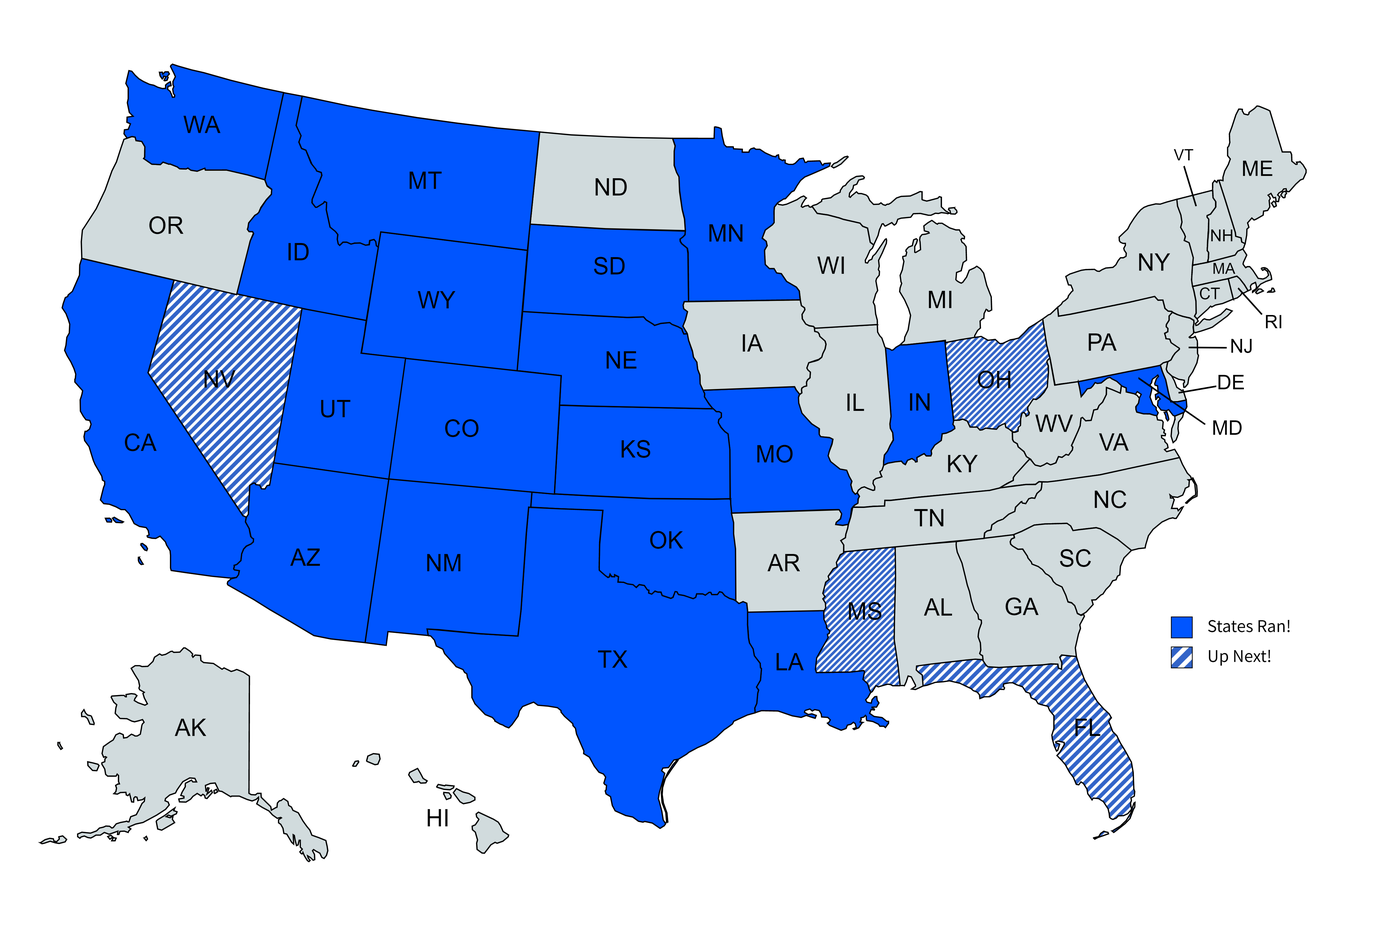
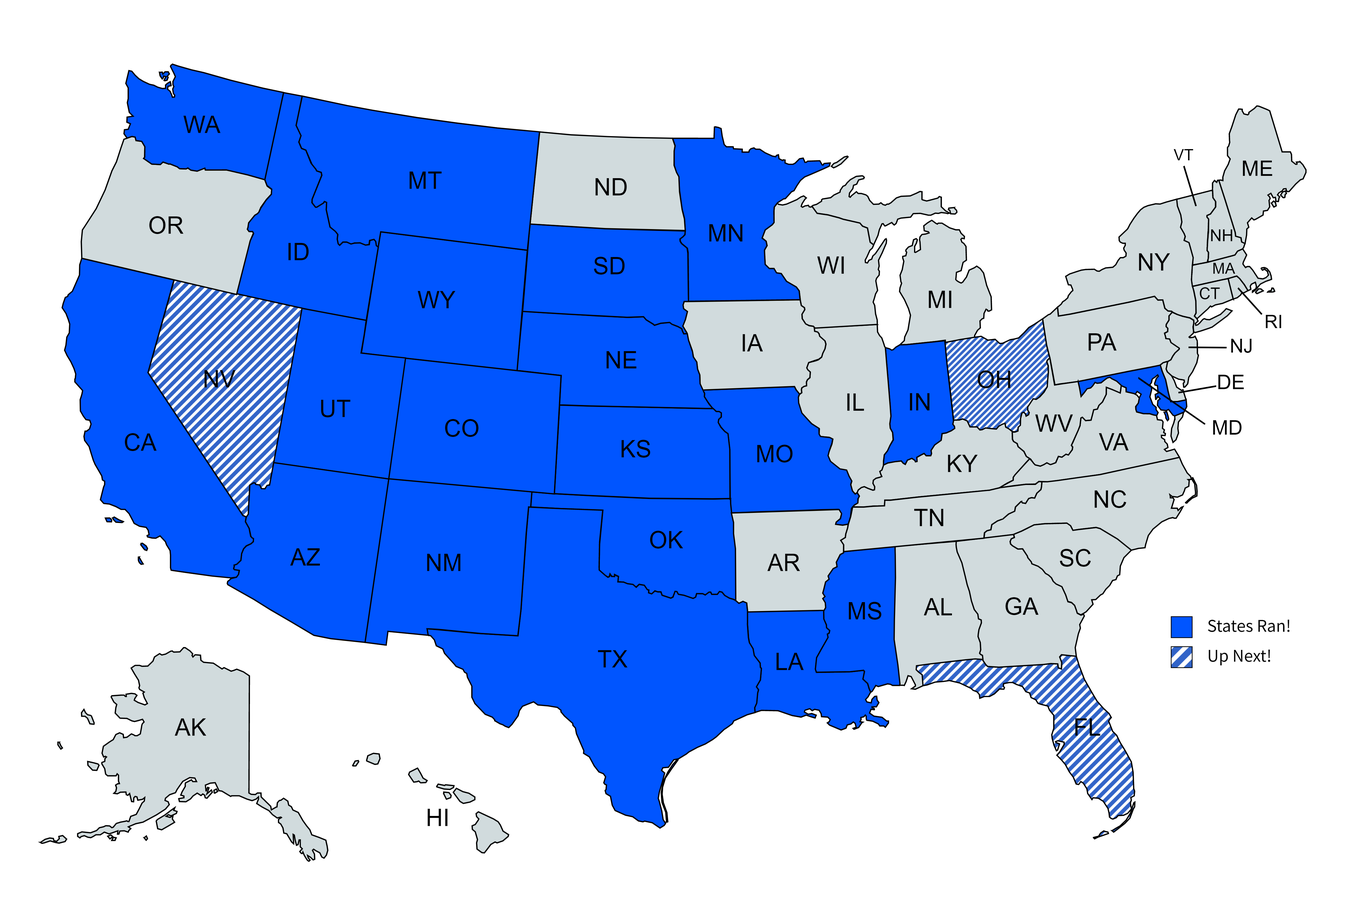
main
main

diff --git a/_pgbackup/index_1638677439.html b/_pgbackup/index_1638677439.html
@@ -39,8 +39,7 @@
                     <div class="row">
                         <div class="col-sm-12">
                             <!-- Top Contact -->
-                            <div class="top-contact link-hover-black">
-                                <a href="mailto:contact@1310milestowardacure.com"> <i class="fa fa-envelope"></i>contact@1310milestowardacure.com</a>
+                            <div class="top-contact link-hover-black"><a href="mailto:contact@1310milestowardacure.com"> <i class="fa fa-envelope"></i>contact@1310milestowardacure.com</a>
                             </div>
                             <!-- Top Social Icon -->
                         </div>
@@ -57,38 +56,27 @@
                                 <div class="col-md-12" style="display: flex; justify-content: space-between; align-items: center; flex-wrap: wrap;">
                                     <div class="navbar-header" style="margin-left: 1%;">
                                         <!-- Button For Responsive toggle -->
-                                        <!-- Logo -->
-                                        <a class="navbar-brand" href="index.html" style="flex-direction: column; align-items: center; display: flex;"> <h4 class="title text-color" style="margin-top: auto; margin-bottom: auto;">1,310 Miles Toward A Cure</h4><h4 class="title">One Stride At A Time</h4> </a>
+                                        <!-- Logo --><a class="navbar-brand" href="index.html" style="flex-direction: column; align-items: center; display: flex;"> <h4 class="title text-color" style="margin-top: auto; margin-bottom: auto;">1,310 Miles Toward A Cure</h4><h4 class="title">One Stride At A Time</h4> </a>
                                     </div>
                                     <!-- Navbar Collapse -->
-                                    <button type="button" class="navbar-toggle" data-toggle="collapse" data-target=".navbar-collapse">
-                                        <span class="sr-only">Toggle navigation</span>
-                                        <span class="icon-bar"></span>
-                                        <span class="icon-bar"></span>
-                                        <span class="icon-bar"></span>
+                                    <button type="button" class="navbar-toggle" data-toggle="collapse" data-target=".navbar-collapse"><span class="sr-only">Toggle navigation</span><span class="icon-bar"></span><span class="icon-bar"></span><span class="icon-bar"></span>
                                     </button>
                                     <div id="topnav" class="navbar-collapse collapse">
                                         <!-- nav -->
                                         <ul class="nav navbar-nav">
-                                            <li class="text-center">
-                                                <a href="#update" class="scroll">Home</a>
+                                            <li class="text-center"><a href="#update" class="scroll">Home</a>
                                             </li>
-                                            <li class="text-center">
-                                                <a href="#events" class="scroll">Previous Events</a>
+                                            <li class="text-center"><a href="#events" class="scroll">Events</a>
                                             </li>
-                                            <li class="text-center">
-                                                <a href="#about-us" class="scroll">About Us</a>
+                                            <li class="text-center"><a href="#about-us" class="scroll">About Us</a>
                                             </li>
-                                            <li class="text-center">
-                                                <a href="#facts" class="scroll">Facts</a>
+                                            <li class="text-center"><a href="#facts" class="scroll">Facts</a>
                                             </li>
-                                            <li class="text-center">
-                                                <a href="#map" class="scroll">Map</a>
+                                            <li class="text-center"><a href="#map" class="scroll">Map</a>
                                             </li>
                                             <!-- Ends Widgets Block -->
                                             <!-- Header Donate Button -->
-                                            <li class="text-center">
-                                                <a target="_blank" rel="noopener noreferrer" href="https://www2.jdrf.org/site/Donation2?df_id=21304&FR_ID=8504&PROXY_TYPE=20&PROXY_ID=11245962" class="scroll"><span class="btn btn-default-inverse">Donate</span></a>
+                                            <li class="text-center"><a target="_blank" rel="noopener noreferrer" href="https://www2.jdrf.org/site/Donation2?df_id=21304&FR_ID=8504&PROXY_TYPE=20&PROXY_ID=11245962" class="scroll"><span class="btn btn-default-inverse">Donate</span></a>
                                             </li>
                                         </ul>
                                         <!-- Right nav -->
@@ -118,13 +106,12 @@
                             <!-- Title -->
                             <h4 class="title text-color">Help us create a world without T1D!</h4>
                             <!-- Content -->
-                            <p>We&rsquo;re up and running and with our own website! Picking up where we left off (pre-pandemic), our current goal is to complete half marathons in 25 states by Summer, 2022. Since races have opened up again, earlier this year, we have completed Wyoming, Missouri, Oklahoma and, most recently, Mississippi. We are so excited to be traveling around the US again. Next up will be Florida in January with both Joey and Micaela running the race with us. See our map of the United States showing all the states we have completed and ALL the states yet to run.</p>
+                            <p>We’re up and running and with our own website! Picking up where we left off (pre-pandemic), our current goal is to complete half marathons in 25 states by Summer, 2022. Since races have opened up again, earlier this year, we have completed Wyoming, Missouri, and Oklahoma. We are so excited to be traveling around the US again. Next up will be Mississippi in December. See our map of the United States showing all the states we have completed and ALL the states yet to run.</p>
                             <p>Please check out our recent events tab to see how much has been raised so far and how much more we hope to raise by the time we tick off our 50th state. We appreciate, very much, everyone’s support over the years and hope that together we can continue to fundraise for JDRF to help them continue their research and ultimately move the world from Type 1 to Type None!</p>
                             <p>
     	While we are running, please check out <a style="color:DodgerBlue" href="https://www.jdrf.org/impact">www.jdrf.org/impact</a> to see where the funds you contribute go and take a look back at how far we have come in the 					treatment of this life threatening disease. </p>
                             <p>To donate to JDRF, please click on the donate button that should redirect you to
-	their website!</p>
-                            <a class="btn btn-default white top-margin-15 scroll" href="#about-us">READ MORE ABOUT US</a>
+	their website!</p><a class="btn btn-default white top-margin-15 scroll" href="#about-us">READ MORE ABOUT US</a>
                         </div>
                     </div>
                 </div>
@@ -364,17 +351,6 @@
                             </div>
                         </div>
                     </div>
-                    <div class="grids col-xs-12 col-sm-6 col-md-3 mix all charity" style="margin-bottom: 10px;">
-                        <div class="grid">
-                            <img src="img/sections/portfolio/gallery-20.jpg" width="317" height="267" alt="Recent Work" class="img-responsive"/>
-                            <div class="figcaption">
-                                <div class="caption-block text-center">
-                                    <h4>Mississippi</h4>
-                                </div>
-                                <!-- Image Popup-->
-                            </div>
-                        </div>
-                    </div>
                 </div>
                 <!-- Mix Container -->
             </section>
@@ -391,10 +367,8 @@
                             <!-- Content -->
                             <h2 class="title text-color">Who We Are</h2>
                             <h5 style="font-size: 18px;"><b>Read More About Our Campaign!</b></h5>
-                            <p style="text-align: left; font-size: 17;">We began our quest in July, 2015 to run a half marathon in every state! Physical challenges aside, we also wanted to tie a charity to this endeavor.  As we were researching various organizations, in early 2016, our daughter, Micaela, was diagnosed with Type 1 Diabetes.</p>
-                            <p style="text-align: left; font-size: 17;">We decided to join with Juvenile Diabetes Research Foundation (JDRF) to raise funds for the millions of people living with and affected by Type 1 Diabetes (T1D).  The money we help raise will help JDRF fund critical research to progressively remove the impact of T1D from people's lives until no one has to fear developing the disease.</p> 
-                            <p style="text-align: left; font-size: 17;">Please see how your dollars are providing hope to those living with this 24/7 disease.</p>
-                            <a target="_blank" rel="noopener noreferrer" href="https://news.vrtx.com/press-release/vertex-announces-positive-day-90-data-first-patient-phase-12-clinical-trial-dosed-vx"><u><b style="font-size: 15px;" class="text-primary">Vertex Announces Positive Day 90 Data for the First Patient in the Phase 1/2 Clinical Trial Dosed With VX-880, a Novel Investigational Stem Cell-Derived Therapy for the Treatment of Type 1 Diabetes | Vertex Newsroom (vrtx.com)</b></u></a>
+                            <p style="text-align: left; font-size: 17;">Rick and Rae Negreann began their quest in July, 2015 to run a half marathon in every state! Physical challenge aside, they also wanted to tie a charity to their endeavor. As they were researching various organizations, in early 2016, their daughter was diagnosed with Type 1 Diabetes.</p>
+                            <p style="text-align: left; font-size: 17;">They decided to join with Juvenile Diabetes Research Foundation (JDRF) to raise funds for the millions of people living with and affected by Type 1 Diabetes (T1D). The money they help raise will help JDRF fund critical research to progressively remove the impact of T1D from people&apos;s lives until no one has to fear developing the disease.</p><a target="_blank" rel="noopener noreferrer" href="https://news.vrtx.com/press-release/vertex-announces-positive-day-90-data-first-patient-phase-12-clinical-trial-dosed-vx"><u><b style="font-size: 15px;">Vertex Announces Positive Day 90 Data for the First Patient in the Phase 1/2 Clinical Trial Dosed With VX-880, a Novel Investigational Stem Cell-Derived Therapy for the Treatment of Type 1 Diabetes | Vertex Newsroom (vrtx.com)</b></u></a>
                         </div>
                         <div class="col-md-6 text-center">
                             <!-- Image -->

diff --git a/_pgbackup/index_1638678147.html b/_pgbackup/index_1638678147.html
@@ -39,8 +39,7 @@
                     <div class="row">
                         <div class="col-sm-12">
                             <!-- Top Contact -->
-                            <div class="top-contact link-hover-black">
-                                <a href="mailto:contact@1310milestowardacure.com"> <i class="fa fa-envelope"></i>contact@1310milestowardacure.com</a>
+                            <div class="top-contact link-hover-black"><a href="mailto:contact@1310milestowardacure.com"> <i class="fa fa-envelope"></i>contact@1310milestowardacure.com</a>
                             </div>
                             <!-- Top Social Icon -->
                         </div>
@@ -57,38 +56,27 @@
                                 <div class="col-md-12" style="display: flex; justify-content: space-between; align-items: center; flex-wrap: wrap;">
                                     <div class="navbar-header" style="margin-left: 1%;">
                                         <!-- Button For Responsive toggle -->
-                                        <!-- Logo -->
-                                        <a class="navbar-brand" href="index.html" style="flex-direction: column; align-items: center; display: flex;"> <h4 class="title text-color" style="margin-top: auto; margin-bottom: auto;">1,310 Miles Toward A Cure</h4><h4 class="title">One Stride At A Time</h4> </a>
+                                        <!-- Logo --><a class="navbar-brand" href="index.html" style="flex-direction: column; align-items: center; display: flex;"> <h4 class="title text-color" style="margin-top: auto; margin-bottom: auto;">1,310 Miles Toward A Cure</h4><h4 class="title">One Stride At A Time</h4> </a>
                                     </div>
                                     <!-- Navbar Collapse -->
-                                    <button type="button" class="navbar-toggle" data-toggle="collapse" data-target=".navbar-collapse">
-                                        <span class="sr-only">Toggle navigation</span>
-                                        <span class="icon-bar"></span>
-                                        <span class="icon-bar"></span>
-                                        <span class="icon-bar"></span>
+                                    <button type="button" class="navbar-toggle" data-toggle="collapse" data-target=".navbar-collapse"><span class="sr-only">Toggle navigation</span><span class="icon-bar"></span><span class="icon-bar"></span><span class="icon-bar"></span>
                                     </button>
                                     <div id="topnav" class="navbar-collapse collapse">
                                         <!-- nav -->
                                         <ul class="nav navbar-nav">
-                                            <li class="text-center">
-                                                <a href="#update" class="scroll">Home</a>
+                                            <li class="text-center"><a href="#update" class="scroll">Home</a>
                                             </li>
-                                            <li class="text-center">
-                                                <a href="#events" class="scroll">Previous Events</a>
+                                            <li class="text-center"><a href="#events" class="scroll">Events</a>
                                             </li>
-                                            <li class="text-center">
-                                                <a href="#about-us" class="scroll">About Us</a>
+                                            <li class="text-center"><a href="#about-us" class="scroll">About Us</a>
                                             </li>
-                                            <li class="text-center">
-                                                <a href="#facts" class="scroll">Facts</a>
+                                            <li class="text-center"><a href="#facts" class="scroll">Facts</a>
                                             </li>
-                                            <li class="text-center">
-                                                <a href="#map" class="scroll">Map</a>
+                                            <li class="text-center"><a href="#map" class="scroll">Map</a>
                                             </li>
                                             <!-- Ends Widgets Block -->
                                             <!-- Header Donate Button -->
-                                            <li class="text-center">
-                                                <a target="_blank" rel="noopener noreferrer" href="https://www2.jdrf.org/site/Donation2?df_id=21304&FR_ID=8504&PROXY_TYPE=20&PROXY_ID=11245962" class="scroll"><span class="btn btn-default-inverse">Donate</span></a>
+                                            <li class="text-center"><a target="_blank" rel="noopener noreferrer" href="https://www2.jdrf.org/site/Donation2?df_id=21304&FR_ID=8504&PROXY_TYPE=20&PROXY_ID=11245962" class="scroll"><span class="btn btn-default-inverse">Donate</span></a>
                                             </li>
                                         </ul>
                                         <!-- Right nav -->
@@ -123,8 +111,7 @@
                             <p>
     	While we are running, please check out <a style="color:DodgerBlue" href="https://www.jdrf.org/impact">www.jdrf.org/impact</a> to see where the funds you contribute go and take a look back at how far we have come in the 					treatment of this life threatening disease. </p>
                             <p>To donate to JDRF, please click on the donate button that should redirect you to
-	their website!</p>
-                            <a class="btn btn-default white top-margin-15 scroll" href="#about-us">READ MORE ABOUT US</a>
+	their website!</p><a class="btn btn-default white top-margin-15 scroll" href="#about-us">READ MORE ABOUT US</a>
                         </div>
                     </div>
                 </div>
@@ -393,8 +380,7 @@
                             <h5 style="font-size: 18px;"><b>Read More About Our Campaign!</b></h5>
                             <p style="text-align: left; font-size: 17;">We began our quest in July, 2015 to run a half marathon in every state! Physical challenges aside, we also wanted to tie a charity to this endeavor.  As we were researching various organizations, in early 2016, our daughter, Micaela, was diagnosed with Type 1 Diabetes.</p>
                             <p style="text-align: left; font-size: 17;">We decided to join with Juvenile Diabetes Research Foundation (JDRF) to raise funds for the millions of people living with and affected by Type 1 Diabetes (T1D).  The money we help raise will help JDRF fund critical research to progressively remove the impact of T1D from people's lives until no one has to fear developing the disease.</p> 
-                            <p style="text-align: left; font-size: 17;">Please see how your dollars are providing hope to those living with this 24/7 disease.</p>
-                            <a target="_blank" rel="noopener noreferrer" href="https://news.vrtx.com/press-release/vertex-announces-positive-day-90-data-first-patient-phase-12-clinical-trial-dosed-vx"><u><b style="font-size: 15px;" class="text-primary">Vertex Announces Positive Day 90 Data for the First Patient in the Phase 1/2 Clinical Trial Dosed With VX-880, a Novel Investigational Stem Cell-Derived Therapy for the Treatment of Type 1 Diabetes | Vertex Newsroom (vrtx.com)</b></u></a>
+                            <p style="text-align: left; font-size: 17;">Please see how your dollars are providing hope to those living with this 24/7 disease.</p><a target="_blank" rel="noopener noreferrer" href="https://news.vrtx.com/press-release/vertex-announces-positive-day-90-data-first-patient-phase-12-clinical-trial-dosed-vx"><u><b style="font-size: 15px;" class="text-primary">Vertex Announces Positive Day 90 Data for the First Patient in the Phase 1/2 Clinical Trial Dosed With VX-880, a Novel Investigational Stem Cell-Derived Therapy for the Treatment of Type 1 Diabetes | Vertex Newsroom (vrtx.com)</b></u></a>
                         </div>
                         <div class="col-md-6 text-center">
                             <!-- Image -->

diff --git a/_pgbackup/index_1638677512.html b/_pgbackup/index_1638677512.html
@@ -74,7 +74,7 @@
                                                 <a href="#update" class="scroll">Home</a>
                                             </li>
                                             <li class="text-center">
-                                                <a href="#events" class="scroll">Previous Events</a>
+                                                <a href="#events" class="scroll">Events</a>
                                             </li>
                                             <li class="text-center">
                                                 <a href="#about-us" class="scroll">About Us</a>
@@ -392,9 +392,8 @@
                             <h2 class="title text-color">Who We Are</h2>
                             <h5 style="font-size: 18px;"><b>Read More About Our Campaign!</b></h5>
                             <p style="text-align: left; font-size: 17;">We began our quest in July, 2015 to run a half marathon in every state! Physical challenges aside, we also wanted to tie a charity to this endeavor.  As we were researching various organizations, in early 2016, our daughter, Micaela, was diagnosed with Type 1 Diabetes.</p>
-                            <p style="text-align: left; font-size: 17;">We decided to join with Juvenile Diabetes Research Foundation (JDRF) to raise funds for the millions of people living with and affected by Type 1 Diabetes (T1D).  The money we help raise will help JDRF fund critical research to progressively remove the impact of T1D from people's lives until no one has to fear developing the disease.</p> 
-                            <p style="text-align: left; font-size: 17;">Please see how your dollars are providing hope to those living with this 24/7 disease.</p>
-                            <a target="_blank" rel="noopener noreferrer" href="https://news.vrtx.com/press-release/vertex-announces-positive-day-90-data-first-patient-phase-12-clinical-trial-dosed-vx"><u><b style="font-size: 15px;" class="text-primary">Vertex Announces Positive Day 90 Data for the First Patient in the Phase 1/2 Clinical Trial Dosed With VX-880, a Novel Investigational Stem Cell-Derived Therapy for the Treatment of Type 1 Diabetes | Vertex Newsroom (vrtx.com)</b></u></a>
+                            <p style="text-align: left; font-size: 17;">They decided to join with Juvenile Diabetes Research Foundation (JDRF) to raise funds for the millions of people living with and affected by Type 1 Diabetes (T1D). The money they help raise will help JDRF fund critical research to progressively remove the impact of T1D from people&apos;s lives until no one has to fear developing the disease.</p>
+                            <a target="_blank" rel="noopener noreferrer" href="https://news.vrtx.com/press-release/vertex-announces-positive-day-90-data-first-patient-phase-12-clinical-trial-dosed-vx"><u><b style="font-size: 15px;">Vertex Announces Positive Day 90 Data for the First Patient in the Phase 1/2 Clinical Trial Dosed With VX-880, a Novel Investigational Stem Cell-Derived Therapy for the Treatment of Type 1 Diabetes | Vertex Newsroom (vrtx.com)</b></u></a>
                         </div>
                         <div class="col-md-6 text-center">
                             <!-- Image -->

diff --git a/_pgbackup/index_1638678010.html b/_pgbackup/index_1638678010.html
@@ -74,7 +74,7 @@
                                                 <a href="#update" class="scroll">Home</a>
                                             </li>
                                             <li class="text-center">
-                                                <a href="#events" class="scroll">Previous Events</a>
+                                                <a href="#events" class="scroll">Events</a>
                                             </li>
                                             <li class="text-center">
                                                 <a href="#about-us" class="scroll">About Us</a>
@@ -394,7 +394,7 @@
                             <p style="text-align: left; font-size: 17;">We began our quest in July, 2015 to run a half marathon in every state! Physical challenges aside, we also wanted to tie a charity to this endeavor.  As we were researching various organizations, in early 2016, our daughter, Micaela, was diagnosed with Type 1 Diabetes.</p>
                             <p style="text-align: left; font-size: 17;">We decided to join with Juvenile Diabetes Research Foundation (JDRF) to raise funds for the millions of people living with and affected by Type 1 Diabetes (T1D).  The money we help raise will help JDRF fund critical research to progressively remove the impact of T1D from people's lives until no one has to fear developing the disease.</p> 
                             <p style="text-align: left; font-size: 17;">Please see how your dollars are providing hope to those living with this 24/7 disease.</p>
-                            <a target="_blank" rel="noopener noreferrer" href="https://news.vrtx.com/press-release/vertex-announces-positive-day-90-data-first-patient-phase-12-clinical-trial-dosed-vx"><u><b style="font-size: 15px;" class="text-primary">Vertex Announces Positive Day 90 Data for the First Patient in the Phase 1/2 Clinical Trial Dosed With VX-880, a Novel Investigational Stem Cell-Derived Therapy for the Treatment of Type 1 Diabetes | Vertex Newsroom (vrtx.com)</b></u></a>
+                            <a target="_blank" rel="noopener noreferrer" href="https://news.vrtx.com/press-release/vertex-announces-positive-day-90-data-first-patient-phase-12-clinical-trial-dosed-vx"><u><b style="font-size: 15px;">Vertex Announces Positive Day 90 Data for the First Patient in the Phase 1/2 Clinical Trial Dosed With VX-880, a Novel Investigational Stem Cell-Derived Therapy for the Treatment of Type 1 Diabetes | Vertex Newsroom (vrtx.com)</b></u></a>
                         </div>
                         <div class="col-md-6 text-center">
                             <!-- Image -->
